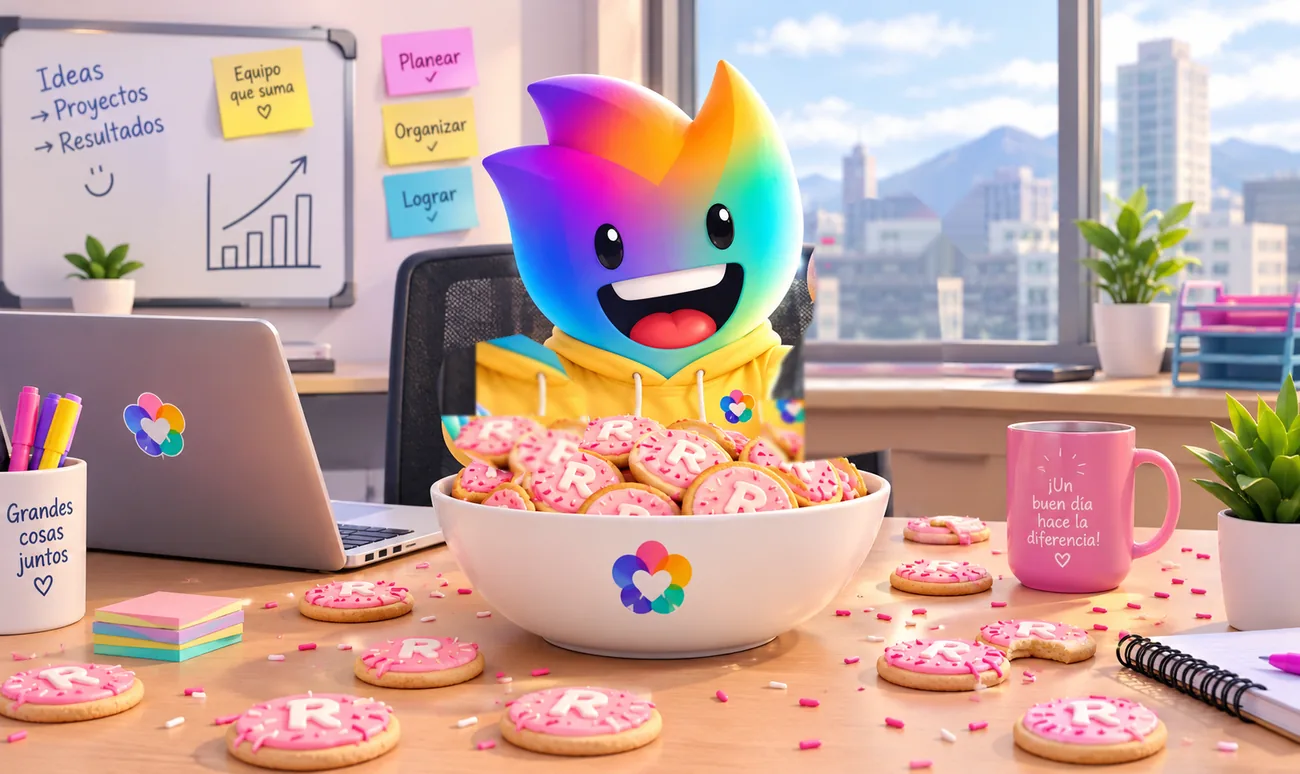
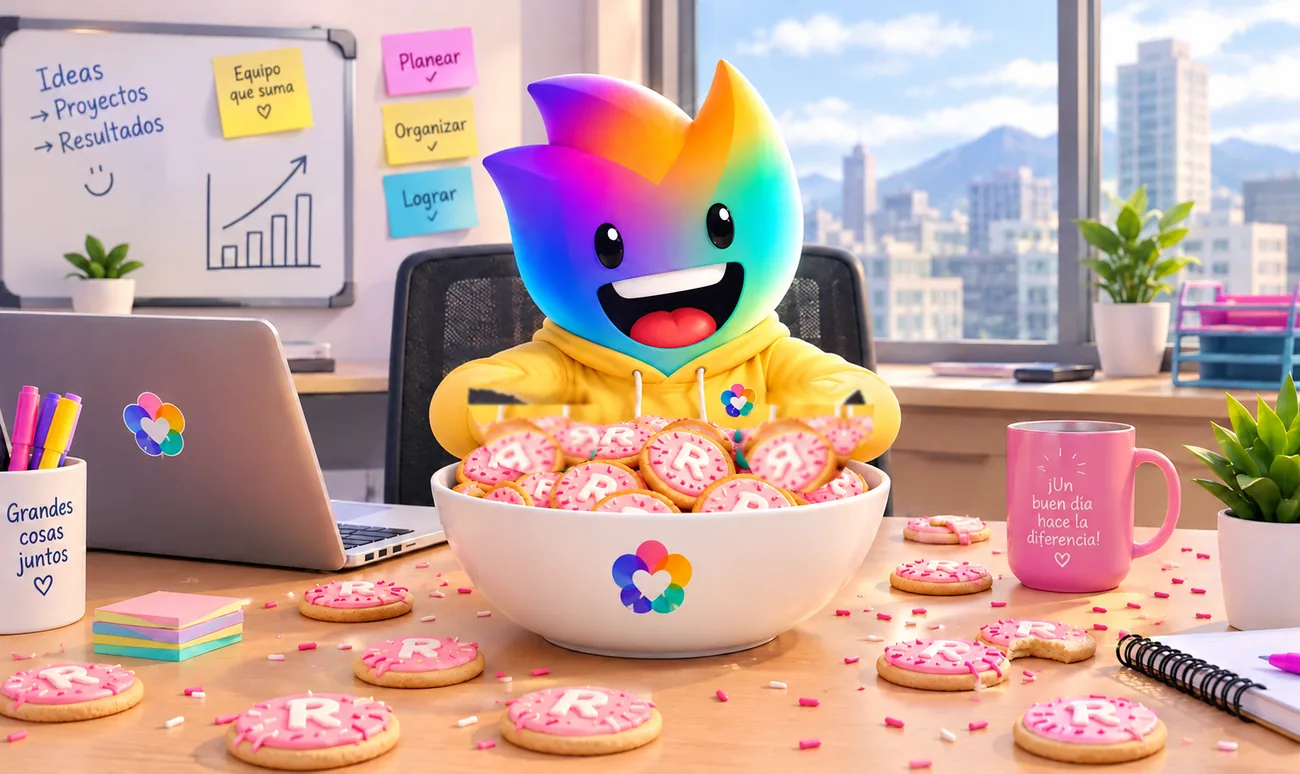
Nueva ilustración de i3sit@ con las dos manos en el tazón: las manos se hunden y giran revolviendo, la derecha empuja la galleta que sube y se parte en el aire
Claude-Session: https://claude.ai/code/session_013B7pexVcGo6fMDUPtoQqhj

diff --git a/index.html b/index.html
@@ -107,24 +107,18 @@ main{max-width:980px;margin:0 auto;display:grid;gap:22px}
 .is-stirring #photo{animation:shakePhoto 1.6s ease-in-out both}
 @keyframes shakePhoto{0%,100%{transform:translate(0,0) rotate(0)}12%{transform:translate(-4px,2px) rotate(-.6deg)}25%{transform:translate(4px,-1px) rotate(.6deg)}38%{transform:translate(-4px,1px) rotate(-.5deg)}50%{transform:translate(4px,2px) rotate(.5deg)}62%{transform:translate(-3px,-1px) rotate(-.4deg)}75%{transform:translate(3px,1px) rotate(.4deg)}88%{transform:translate(-2px,0) rotate(-.2deg)}}
 .is-lifting #photo{animation:none}
-/* Brazos recortados de la ilustración: giran sobre el hombro. El derecho se mete al tazón a revolver y sube con la galleta. */
+/* Manos recortadas de la ilustración (las dos ya están dentro del tazón): se hunden y giran para revolver; la derecha empuja la galleta hacia arriba. */
 .arm{transform-box:view-box}
-#armR{transform-origin:547.7px 264.7px}
-#handR{transform-origin:606.0px 272.6px}
-#armL{transform-origin:329.7px 251.7px}
-/* La manga baja desde el hombro hacia el tazón y la mano (pieza aparte) gira sobre el puño para meterse entre las galletas: sin codo doblado. */
-.is-stirring #armR{animation:armDip 1.6s cubic-bezier(.45,0,.2,1) both}
-@keyframes armDip{0%{transform:none}30%{transform:translate(-2px,6px) rotate(72deg)}45%{transform:translate(-3px,7px) rotate(77deg)}60%{transform:translate(-1px,5px) rotate(68deg)}75%{transform:translate(-3px,7px) rotate(76deg)}90%{transform:translate(-1px,5px) rotate(69deg)}100%{transform:translate(-2px,6px) rotate(72deg)}}
-.is-stirring #handR{animation:handDip 1.6s cubic-bezier(.45,0,.2,1) both}
-@keyframes handDip{0%{transform:none}30%{transform:rotate(-205deg)}45%{transform:rotate(-218deg)}60%{transform:rotate(-196deg)}75%{transform:rotate(-216deg)}90%{transform:rotate(-198deg)}100%{transform:rotate(-205deg)}}
-.is-lifting #armR{animation:armLift .95s cubic-bezier(.3,1.25,.4,1) both}
-@keyframes armLift{0%{transform:translate(-2px,6px) rotate(72deg)}65%{transform:translate(2px,-6px) rotate(-6deg)}100%{transform:none}}
-.is-lifting #handR{animation:handLift .95s cubic-bezier(.3,1.25,.4,1) both}
-@keyframes handLift{0%{transform:rotate(-205deg)}65%{transform:rotate(9deg)}100%{transform:none}}
-.is-stirring #armL{animation:armStir .46s ease-in-out infinite alternate}
-@keyframes armStir{from{transform:rotate(-4deg) translate(-4px,3px)}to{transform:rotate(7deg) translate(6px,-7px)}}
-.is-lifting #armL{animation:armSettle .6s cubic-bezier(.3,1.3,.4,1) both}
-@keyframes armSettle{0%{transform:rotate(4deg) translate(2px,-4px)}100%{transform:none}}
+#handL2{transform-origin:368.2px 294.1px}
+#handR2{transform-origin:559.0px 304.3px}
+.is-stirring #handL2{animation:stirL 1.6s ease-in-out both}
+@keyframes stirL{0%{transform:none}18%{transform:translate(-7px,9px) rotate(-7deg)}36%{transform:translate(9px,15px) rotate(6deg)}54%{transform:translate(-9px,12px) rotate(-8deg)}72%{transform:translate(7px,16px) rotate(6deg)}90%{transform:translate(-5px,11px) rotate(-5deg)}100%{transform:translate(-3px,9px) rotate(-3deg)}}
+.is-stirring #handR2{animation:stirR 1.6s ease-in-out both}
+@keyframes stirR{0%{transform:none}18%{transform:translate(8px,11px) rotate(7deg)}36%{transform:translate(-9px,16px) rotate(-6deg)}54%{transform:translate(9px,12px) rotate(8deg)}72%{transform:translate(-8px,17px) rotate(-6deg)}90%{transform:translate(5px,11px) rotate(5deg)}100%{transform:translate(3px,9px) rotate(3deg)}}
+.is-lifting #handL2{animation:settleL .7s cubic-bezier(.3,1.3,.4,1) both}
+@keyframes settleL{0%{transform:translate(-3px,9px) rotate(-3deg)}100%{transform:none}}
+.is-lifting #handR2{animation:liftR .95s cubic-bezier(.3,1.2,.4,1) both}
+@keyframes liftR{0%{transform:translate(3px,9px) rotate(3deg)}40%{transform:translate(-5px,-20px) rotate(-12deg)}70%{transform:translate(-2px,-6px) rotate(-4deg)}100%{transform:none}}
 .is-happy #photo{animation:jumpPhoto .7s cubic-bezier(.3,1.3,.4,1) both}
 @keyframes jumpPhoto{0%,100%{transform:translateY(0) scale(1)}40%{transform:translateY(-14px) scale(1.03)}}
 .is-meh #photo{animation:mehPhoto .8s ease-in-out both}
@@ -137,11 +131,11 @@ main{max-width:980px;margin:0 auto;display:grid;gap:22px}
 .is-stirring .ck:nth-child(4n){animation-delay:.14s}
 @keyframes jig{from{transform:rotate(-14deg) translateY(-2px)}to{transform:rotate(14deg) translateY(-7px)}}
 @keyframes hop{from{transform:translateY(0) rotate(-10deg)}to{transform:translateY(-24px) rotate(14deg)}}
-#drawn{transform-box:view-box;transform-origin:601px 183px;opacity:0;transform:scale(.5)}
-/* La galleta elegida "crece" en la mano cuando el brazo termina de subir; al partirse, se desvanece mientras aparece la grande */
-.is-lifting #drawn{animation:cookieShow .95s ease-out both}
-@keyframes cookieShow{0%,60%{opacity:0;transform:scale(.7)}80%{opacity:1;transform:scale(1.32) rotate(-9deg)}100%{opacity:1;transform:scale(1.15) rotate(0)}}
-.is-lifting.is-open #drawn{animation:cookieShow .95s ease-out both,drawnFade .45s ease-in .8s both}
+#drawn{transform-box:view-box;transform-origin:575px 225px;opacity:0;transform:scale(.5)}
+/* La galleta elegida sale del tazón empujada por la mano derecha y sube hasta quedar en el aire; al partirse, se desvanece mientras aparece la grande */
+.is-lifting #drawn{animation:cookieRise .95s cubic-bezier(.3,1.1,.4,1) both}
+@keyframes cookieRise{0%{opacity:0;transform:translate(-16px,79px) scale(.45) rotate(-40deg)}22%{opacity:1;transform:translate(-14px,52px) scale(.8) rotate(-24deg)}70%{opacity:1;transform:translate(4px,-12px) scale(1.28) rotate(8deg)}100%{opacity:1;transform:translate(0,0) scale(1.15) rotate(0)}}
+.is-lifting.is-open #drawn{animation:cookieRise .95s cubic-bezier(.3,1.1,.4,1) both,drawnFade .45s ease-in .8s both}
 @keyframes drawnFade{to{opacity:0;transform:scale(1.5)}}
 .is-return #drawn{animation:cookieAway .5s ease-in both}
 @keyframes cookieAway{0%{opacity:1;transform:scale(1.15)}100%{opacity:0;transform:scale(.4) translateY(-30px)}}
@@ -185,7 +179,7 @@ main{max-width:980px;margin:0 auto;display:grid;gap:22px}
 .scene-reveal .paper .label{font-size:clamp(.7rem,1.3cqw,.85rem)}
 .scene-reveal.enter{animation:revealFade .5s ease-out both}
 @keyframes revealFade{from{opacity:0}to{opacity:1}}
-.scene-reveal.enter .slip-paper{animation:slipGrow .95s cubic-bezier(.2,1.15,.3,1) both;transform-origin:68% 22%}
+.scene-reveal.enter .slip-paper{animation:slipGrow .95s cubic-bezier(.2,1.15,.3,1) both;transform-origin:64% 42%}
 @keyframes slipGrow{0%{transform:translate(20%,-18%) scale(.1);opacity:0}40%{opacity:1}100%{transform:none;opacity:1}}
 .scene-reveal.enter .cookie-slip.break .half-svg.left,.scene-reveal.enter .cookie-slip.break .half-svg.right,.scene-reveal.enter .cookie-slip.break .paper.hab{animation-delay:.55s}
 .scene-reveal.enter .cookie-slip.break .crac-h{animation-delay:1.05s}
@@ -518,40 +512,39 @@ details.howto[open] summary::after{content:"\2212"}
       <svg class="scene" id="scene" viewBox="0 0 900 536" aria-labelledby="sceneDesc" role="img">
         <title id="sceneDesc">i3sit@ en su oficina, con un tazón de galletas rosadas con R y una galleta en la mano</title>
         <defs>
-          <clipPath id="inBowl"><rect x="292" y="268" width="330" height="92" rx="40"/></clipPath>
+          <clipPath id="inBowl"><rect x="292" y="262" width="330" height="104" rx="40"/></clipPath>
         </defs>
         <g id="photo">
-          <!-- Fondo: la oficina sin los brazos (se rellenó el fondo detrás). Los brazos van aparte para poder moverlos. -->
+          <!-- Fondo: la oficina con i3sit@ (las manos van en capas aparte para poder moverlas; detrás se rellenó con galletas) -->
           <image id="officeImg" href="/mascota/oficina2.webp" x="-10" y="-6" width="920" height="548" preserveAspectRatio="xMidYMid slice"/>
-          <image id="armL" class="arm" href="/mascota/brazo-i.webp" x="295.7" y="227.4" width="113.2" height="104.2"/>
-          <g id="armR" class="arm">
-            <g id="handR" class="arm"><image href="/mascota/mano-d.webp" x="531.9" y="146.9" width="126.3" height="154.0"/></g>
-            <image id="sleeveR" href="/mascota/manga-d.webp" x="524.5" y="252.8" width="132.5" height="70.2"/>
-          </g>
-          <!-- Galletas que se revuelven en el tazón (aparecen al revolver; van sobre las manos para que se vean metidas) -->
+          <!-- Galletas que saltan en el tazón mientras revuelve: la mayoría detrás de las manos, unas pocas delante -->
           <g id="bowl" class="bowl" clip-path="url(#inBowl)">
-            <use href="#fc" class="ck" width="46" height="46" transform="translate(304 296) rotate(-18 23 23)"/>
-            <use href="#fc" class="ck" width="46" height="46" transform="translate(346 282) rotate(14 23 23)"/>
-            <use href="#fc" class="ck" width="46" height="46" transform="translate(390 276) rotate(-6 23 23)"/>
-            <use href="#fc" class="ck" width="46" height="46" transform="translate(434 274) rotate(20 23 23)"/>
-            <use href="#fc" class="ck" width="46" height="46" transform="translate(478 276) rotate(-12 23 23)"/>
-            <use href="#fc" class="ck" width="46" height="46" transform="translate(522 282) rotate(8 23 23)"/>
-            <use href="#fc" class="ck" width="46" height="46" transform="translate(562 294) rotate(26 23 23)"/>
-            <use href="#fc" class="ck" width="46" height="46" transform="translate(328 314) rotate(28 23 23)"/>
-            <use href="#fc" class="ck" width="46" height="46" transform="translate(372 310) rotate(-22 23 23)"/>
-            <use href="#fc" class="ck" width="46" height="46" transform="translate(416 308) rotate(10 23 23)"/>
-            <use href="#fc" class="ck" width="46" height="46" transform="translate(460 310) rotate(-16 23 23)"/>
-            <use href="#fc" class="ck" width="46" height="46" transform="translate(504 312) rotate(24 23 23)"/>
-            <use href="#fc" class="ck" width="46" height="46" transform="translate(546 318) rotate(-30 23 23)"/>
+            <use href="#fc" class="ck" width="40" height="40" transform="translate(300 300) rotate(-18 20 20)"/>
+            <use href="#fc" class="ck" width="40" height="40" transform="translate(340 286) rotate(14 20 20)"/>
+            <use href="#fc" class="ck" width="40" height="40" transform="translate(392 278) rotate(-6 20 20)"/>
+            <use href="#fc" class="ck" width="40" height="40" transform="translate(438 274) rotate(20 20 20)"/>
+            <use href="#fc" class="ck" width="40" height="40" transform="translate(484 278) rotate(-12 20 20)"/>
+            <use href="#fc" class="ck" width="40" height="40" transform="translate(528 286) rotate(8 20 20)"/>
+            <use href="#fc" class="ck" width="40" height="40" transform="translate(574 298) rotate(26 20 20)"/>
+            <use href="#fc" class="ck" width="40" height="40" transform="translate(420 300) rotate(-22 20 20)"/>
+            <use href="#fc" class="ck" width="40" height="40" transform="translate(462 304) rotate(10 20 20)"/>
           </g>
-          <!-- Frente del tazón: tapa la mano cuando entra a revolver -->
-          <image id="bowlFront" href="/mascota/tazon.webp" x="288.9" y="340.6" width="336.3" height="137.1"/>
-          <!-- La galleta que saca y muestra en la mano -->
+          <image id="handL2" class="arm" href="/mascota/mano-i.webp" x="319.0" y="256.7" width="98.0" height="73.6"/>
+          <image id="handR2" class="arm" href="/mascota/mano-d.webp" x="510.3" y="261.2" width="99.1" height="82.7"/>
+          <g id="bowlOver" class="bowl" clip-path="url(#inBowl)">
+            <use href="#fc" class="ck" width="34" height="34" transform="translate(352 318) rotate(24 17 17)"/>
+            <use href="#fc" class="ck" width="34" height="34" transform="translate(404 326) rotate(-16 17 17)"/>
+            <use href="#fc" class="ck" width="34" height="34" transform="translate(498 322) rotate(18 17 17)"/>
+            <use href="#fc" class="ck" width="34" height="34" transform="translate(556 328) rotate(-28 17 17)"/>
+          </g>
+          <!-- Frente del tazón: tapa las manos cuando se hunden a revolver -->
+          <image id="bowlFront" href="/mascota/tazon.webp" x="292.4" y="337.1" width="338.6" height="150.6"/>
+          <!-- La galleta que sale del tazón y se parte en el aire -->
           <g id="drawn">
-            <g transform="translate(569 151)">
+            <g transform="translate(543 193)">
               <path class="flash" d="M32 14 l4 12 l12 -4 l-8 10 l8 10 l-12 -4 l-4 12 l-4 -12 l-12 4 l8 -10 l-8 -10 l12 4z" fill="#FFF6E5" stroke="#FFB347" stroke-width="2"/>
-              <use class="half half-l" href="#fc" clip-path="url(#clipL)"/>
-              <use class="half half-r" href="#fc" clip-path="url(#clipR)"/>
+              <use class="half half-l" href="#fc" width="64" height="64" clip-path="url(#clipL)"/>
+              <use class="half half-r" href="#fc" width="64" height="64" clip-path="url(#clipR)"/>
               <g fill="#F8857A" stroke="#3B2238" stroke-width="1.2">
                 <circle class="crumb" cx="32" cy="32" r="3" style="--dx:-26px;--dy:-30px;--rot:120deg"/>
                 <circle class="crumb" cx="32" cy="32" r="2.4" style="--dx:24px;--dy:-34px;--rot:-90deg"/>
@@ -572,8 +565,8 @@ details.howto[open] summary::after{content:"\2212"}
             <path class="spark" style="--d:.36s" d="M470 246 l4 9 l9 4 l-9 4 l-4 9 l-4 -9 l-9 -4 l9 -4z" fill="#E63E7E"/>
             <path class="spark" style="--d:.27s" d="M380 240 l4 9 l9 4 l-9 4 l-4 9 l-4 -9 l-9 -4 l9 -4z" fill="#FF8C2E"/>
             <path class="spark" style="--d:.09s" d="M656 150 l4 9 l9 4 l-9 4 l-4 9 l-4 -9 l-9 -4 l9 -4z" fill="#FFB347"/>
-            <path class="spark hand" style="--d:.2s" d="M650 120 l4 9 l9 4 l-9 4 l-4 9 l-4 -9 l-9 -4 l9 -4z" fill="#FF6FA3"/>
-            <path class="spark hand" style="--d:.5s" d="M672 170 l3 7 l7 3 l-7 3 l-3 7 l-3 -7 l-7 -3 l7 -3z" fill="#E63E7E"/>
+            <path class="spark hand" style="--d:.2s" d="M626 184 l4 9 l9 4 l-9 4 l-4 9 l-4 -9 l-9 -4 l9 -4z" fill="#FF6FA3"/>
+            <path class="spark hand" style="--d:.5s" d="M520 246 l3 7 l7 3 l-7 3 l-3 7 l-3 -7 l-7 -3 l7 -3z" fill="#E63E7E"/>
             <path class="spark" style="--d:.45s" d="M560 130 l4 9 l9 4 l-9 4 l-4 9 l-4 -9 l-9 -4 l9 -4z" fill="#FF6FA3"/>
           </g>
           <g id="deskCookies"></g>
@@ -732,7 +725,7 @@ details.howto[open] summary::after{content:"\2212"}
 <footer class="footer">
   <span>Un juego de <b>relacion.at</b> con i3 🌷 · Recomendaciones del material «Dale la A, ponle la R».</span>
   <span class="teacher-note">La sala vive mientras esta pestaña esté abierta: si la cierras o recargas, se crea una sala nueva con otro código.</span>
-  <span class="ver">versión 2026-10-26 13:09</span>
+  <span class="ver">versión 2026-10-26 13:19</span>
 </footer>
 
 <script>
